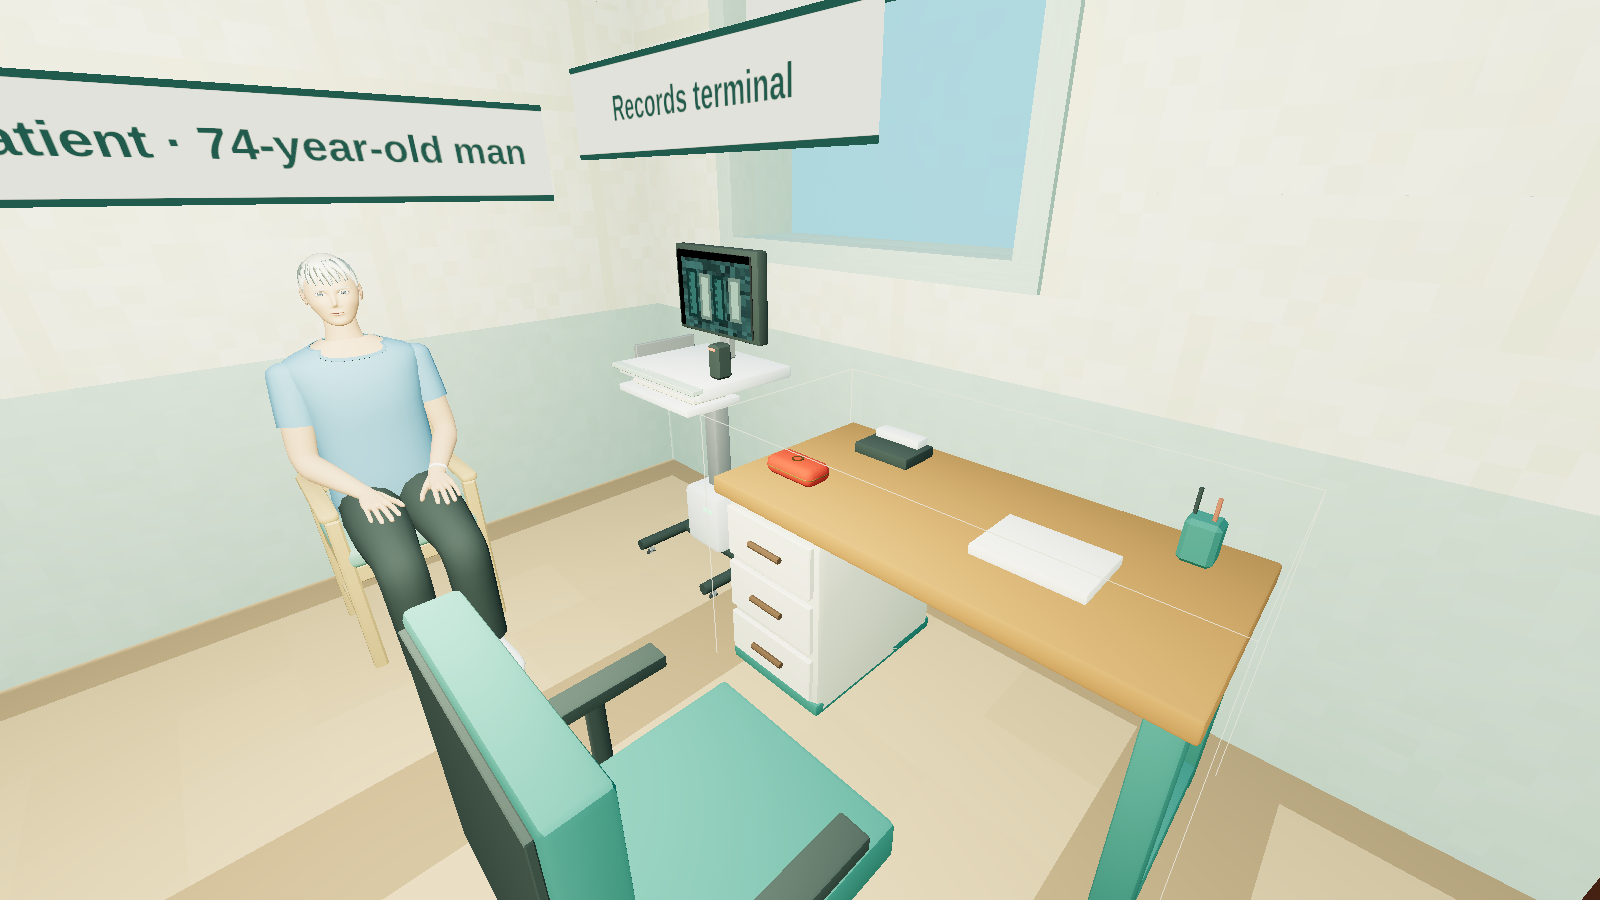
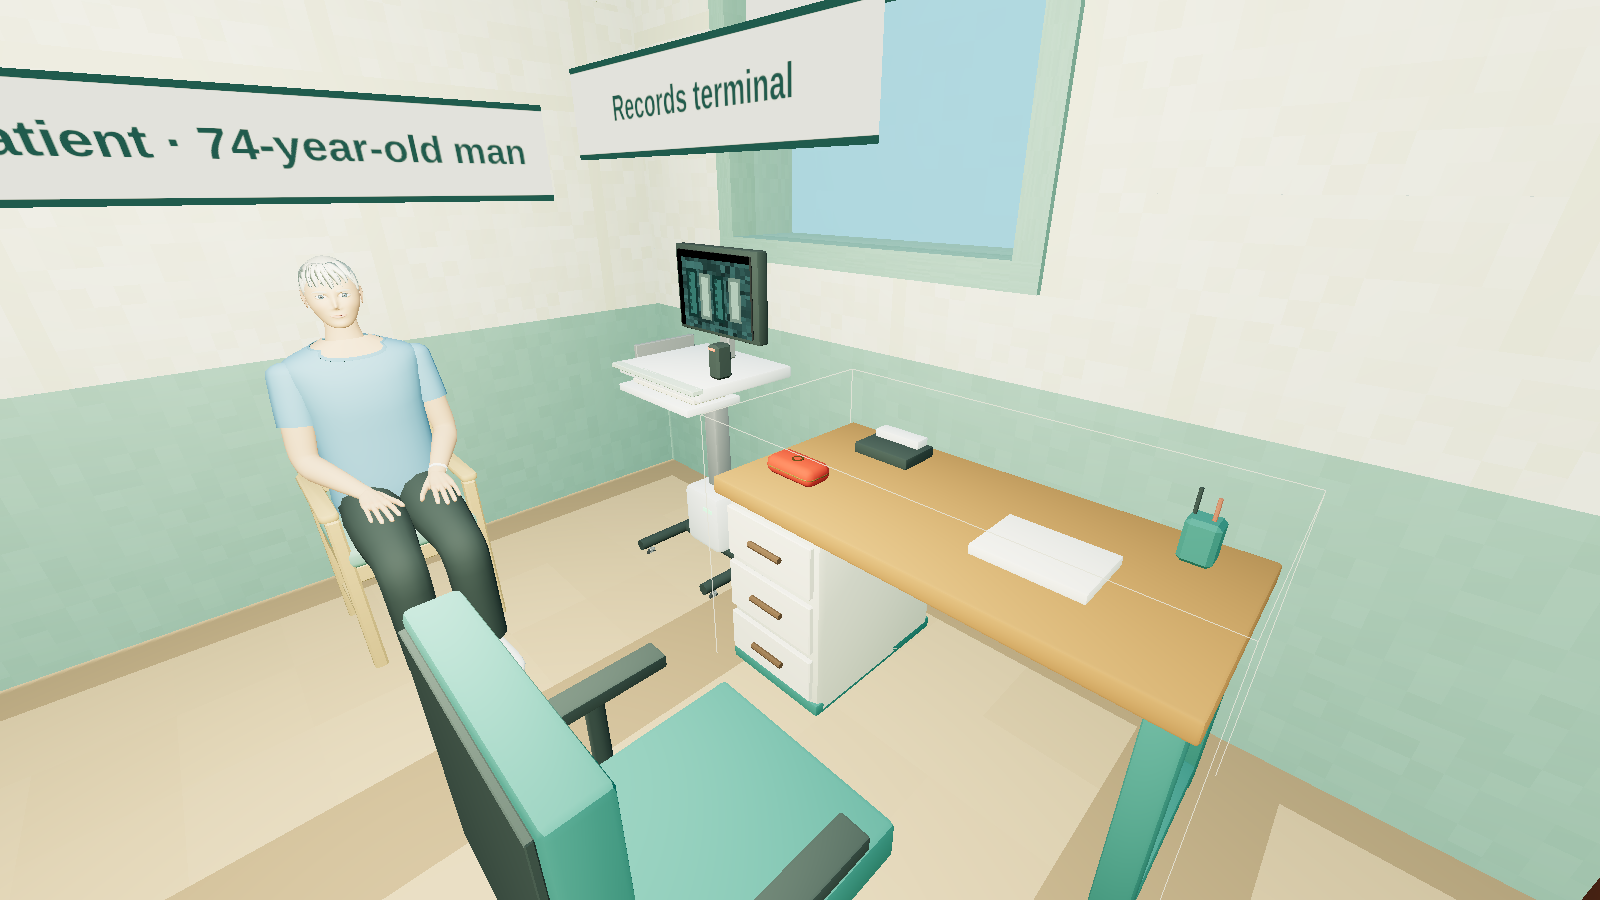
The walls' dado a tone deeper, the ceiling a tone quieter
Under the world's lights the pale dado and the near-white ceiling washed the rooms
out. Two colours of the pack's materials change; the pictures of docs/img taken in
the 3D world are taken again. Nothing else: no model, no placement, no collider.

Claude-Session: https://claude.ai/code/session_01DxjVTAxUoFpr9PCd4rKdjF

diff --git a/tools/content/clinic_world.py b/tools/content/clinic_world.py
@@ -67,8 +67,8 @@ MATERIALS = [
     M("acu-sharps", "#efc531", roughness=0.5),                                 # a sharps container
     M("acu-heat", "#3a2622", variance=0.02, roughness=0.85, emissive="#ff5a2a", emissiveIntensity=0.35),  # a heat lamp's plate
     M("acu-timber", "#c2a47c", "plank", 0.03, roughness=0.7, castShadow=False),  # a warm floor
-    M("acu-dado", "#a9c3b6", variance=0.025, roughness=0.8),                   # the painted lower course of a wall
-    M("acu-ceiling", "#eceee6", "tile", 0.02, roughness=0.9),                  # ceiling tiles
+    M("acu-dado", "#7da696", variance=0.025, roughness=0.8),                   # the painted lower course of a wall
+    M("acu-ceiling", "#dfe3d9", "tile", 0.02, roughness=0.9),                  # ceiling tiles
 ]
 
 # ---------------------------------------------------------------------------------------------------------
